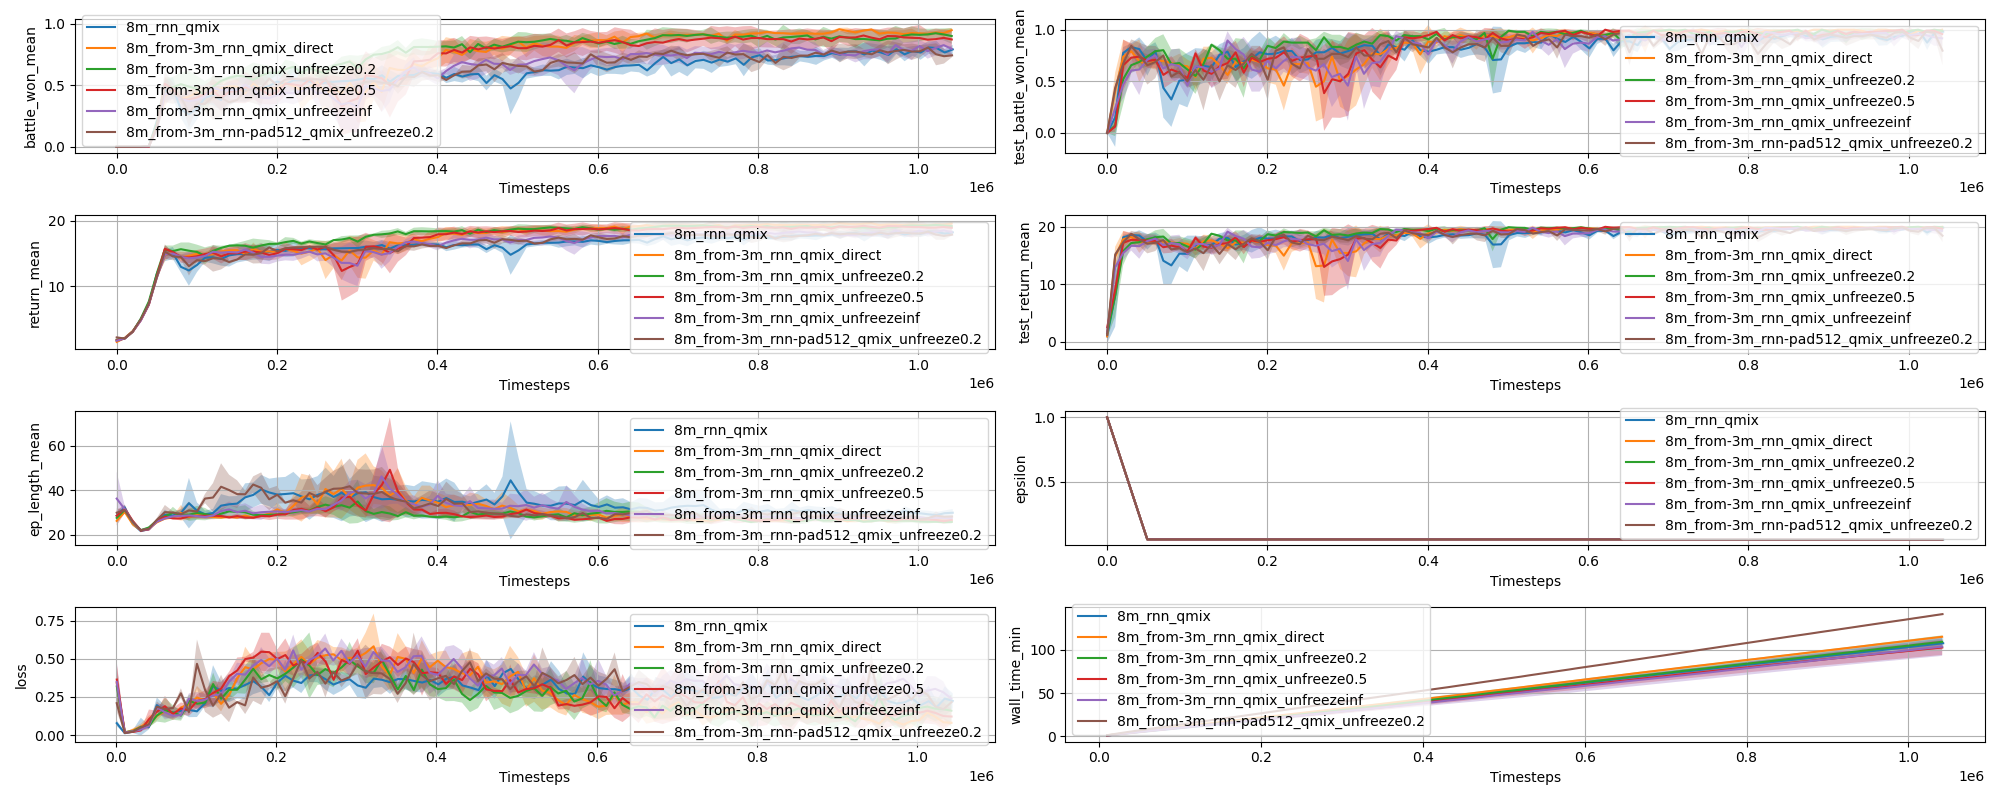
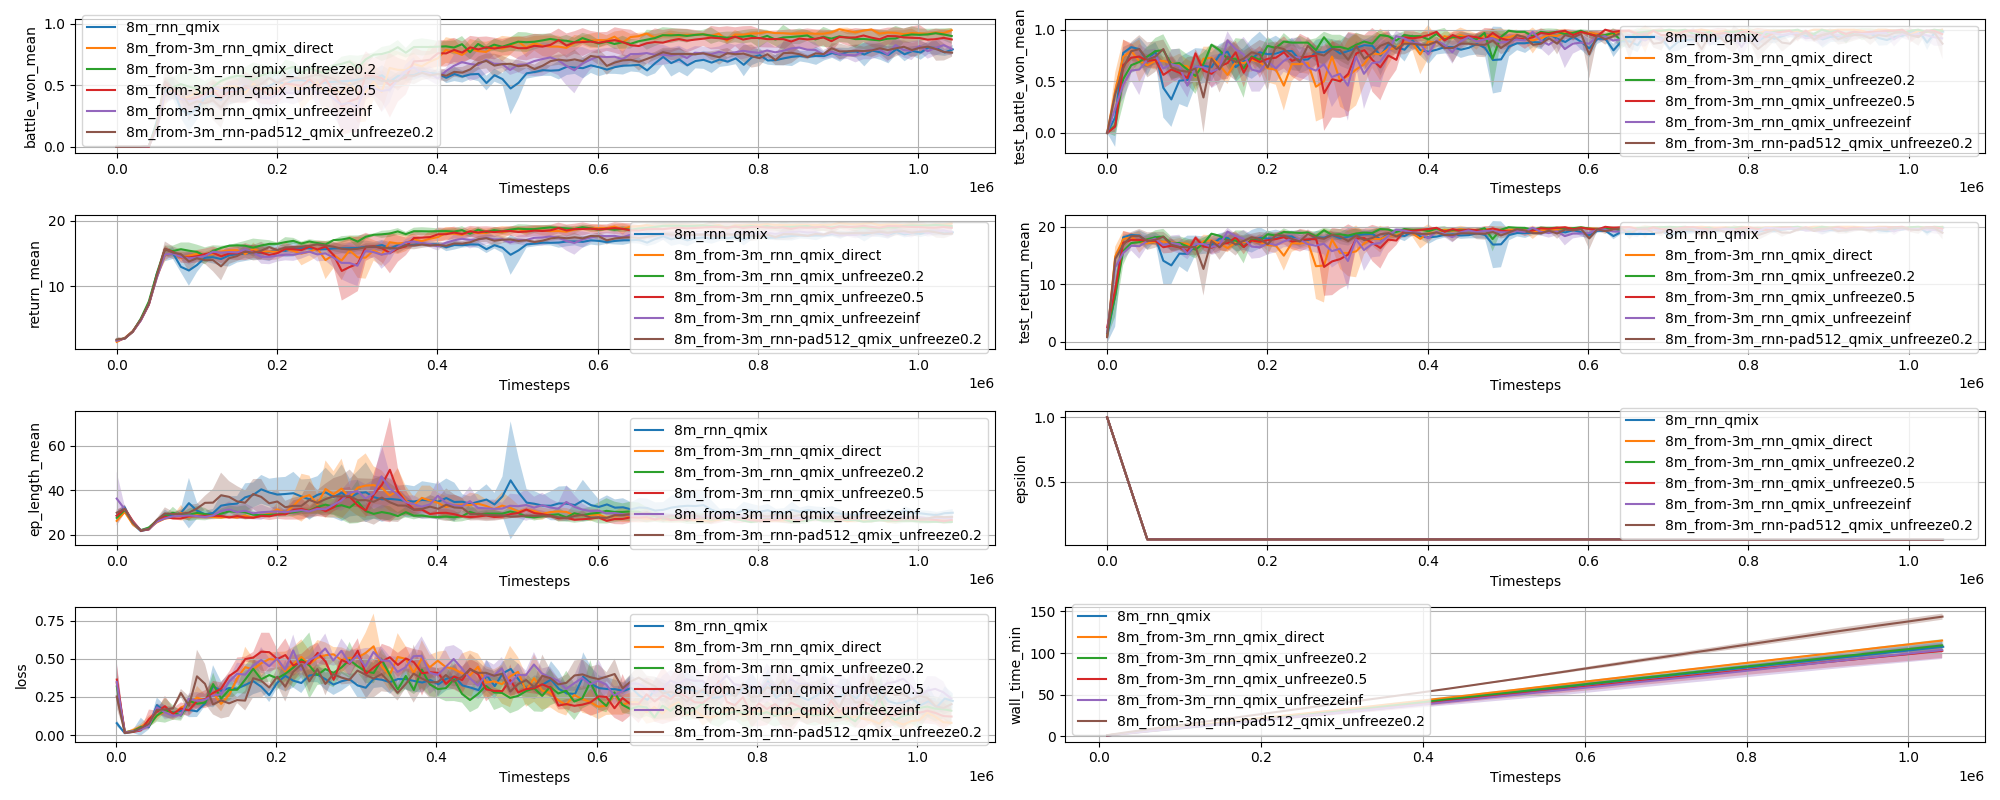
Batches recovered after ubuntu crash

diff --git a/research/main_plot.py b/research/main_plot.py
@@ -36,10 +36,10 @@ def generate_training_figure(models:list, label:str):
 # generate_training_figure(["8m_rnn_qmix", "8m_from-8m_rnn_qmix_direct", "8m_from-8m_rnn_qmix_unfreeze02",
 #                           "8m_from-8m_rnn_qmix_unfreeze05", "8m_from-8m_rnn_qmix_unfreezeinf"], label="8m_selftransfer_rnn_qmix.png")
 
-# generate_training_figure(["8m_rnn_qmix", "8m_from-3m_rnn_qmix_direct", "8m_from-3m_rnn_qmix_unfreeze0.2",
-#                           "8m_from-3m_rnn_qmix_unfreeze0.5", "8m_from-3m_rnn_qmix_unfreezeinf", "8m_from-3m_rnn-pad512_qmix_unfreeze0.2"
-#                           ], label="8m_from-3m_rnn_qmix.png")
+generate_training_figure(["8m_rnn_qmix", "8m_from-3m_rnn_qmix_direct", "8m_from-3m_rnn_qmix_unfreeze0.2",
+                          "8m_from-3m_rnn_qmix_unfreeze0.5", "8m_from-3m_rnn_qmix_unfreezeinf", "8m_from-3m_rnn-pad512_qmix_unfreeze0.2"
+                          ], label="8m_from-3m_rnn_qmix.png")
 
 # generate_training_figure(["25m_rnn_qmix"], label="25m_rnn_qmix.png")
 
-generate_training_figure(["2m_vs_1z_rnn_qmix"], label="2m_vs_1z_rnn_qmix.png")
+# generate_training_figure(["2m_vs_1z_rnn_qmix"], label="2m_vs_1z_rnn_qmix.png")
